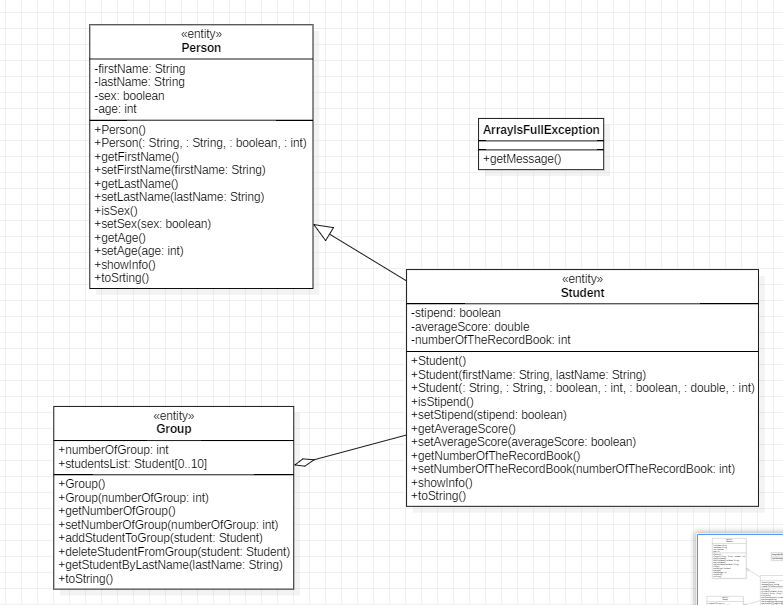
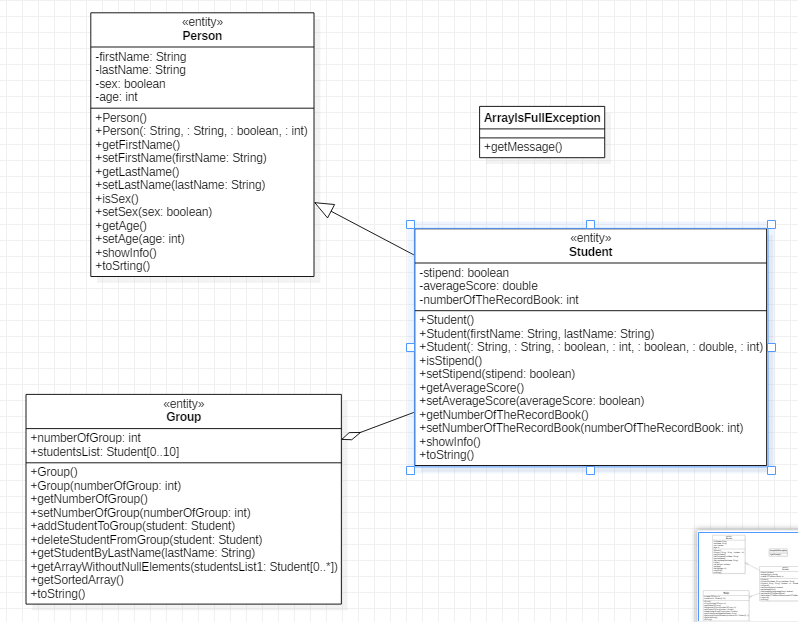
Change project

diff --git a/src/Group.java b/src/Group.java
@@ -27,7 +27,7 @@ public class Group {
         boolean isGroupFull = true;
         boolean thisStudentIsAlreadyInTheGroup = false; //для того щоб ми не добавляни 2 раза одного студента
         for (Student aStudentsList : studentsList) {
-            if (aStudentsList == student) {
+            if (aStudentsList.equals(student)) {
                 thisStudentIsAlreadyInTheGroup = true;
             }
         }
@@ -48,16 +48,18 @@ public class Group {
     }
 
     public void deleteStudentFromGroup(Student student) {
-        boolean thereAreNoThisStudentInGroup = false;
-        for (int i = 0; i < studentsList.length; i++) {
-            if (studentsList[i] == student) {
-                thereAreNoThisStudentInGroup = true;
-                studentsList[i] = null;
-                System.out.println(student.getFirstName()+" "+ student.getLastName() +" has deleted from group.");
+        if (student != null) {
+            boolean thereAreNoThisStudentInGroup = false;
+            for (int i = 0; i < studentsList.length; i++) {
+                if (studentsList[i].equals(student)) {
+                    thereAreNoThisStudentInGroup = true;
+                    studentsList[i] = null;
+                    System.out.println(student.getFirstName() + " " + student.getLastName() + " has deleted from group.");
+                }
             }
-        }
-        if (!thereAreNoThisStudentInGroup) {
-            System.out.println("Such a student is not in the group.");
+            if (!thereAreNoThisStudentInGroup) {
+                System.out.println("Such a student is not in the group.");
+            }
         }
     }
 
@@ -74,27 +76,28 @@ public class Group {
         return null;
     }
 
-    @Override
-    public String toString() {
-        //сам studentsList не сортував тому що по завданню потрібно просто вивести відсортовано
-        // а не відсортувати studentsList. тому використав додатковий масив
-
-
+    public Student[] getArrayWithoutNullElements(Student[] studentsList1){
         int lengthStudents = 0;
-        for (int i = 0; i < studentsList.length; i++) {
-            if (studentsList[i] != null) {
+        for (int i = 0; i < studentsList1.length; i++) {
+            if (studentsList1[i] != null) {
                 lengthStudents++;
             }
         }
 
         Student[] students = new Student[lengthStudents];
         int index = 0;
-        for (int i = 0; i < studentsList.length; i++) {
-            if (studentsList[i] != null) {
-                students[index] = studentsList[i];
+        for (int i = 0; i < studentsList1.length; i++) {
+            if (studentsList1[i] != null) {
+                students[index] = studentsList1[i];
                 index++;
             }
         }
+
+        return students;
+    }
+    public Student[] getSortedArray() {
+        Student[] students = null;
+        students = getArrayWithoutNullElements(studentsList);
 
         for (int i = 0; i < students.length-1; i++) {
             for (int j = 0; j < students.length-1; j++) {
@@ -115,6 +118,13 @@ public class Group {
             }
         }
 
-        return "Group{\n"+ Arrays.toString(students) +"}";
+
+        return students;
+    }
+
+    @Override
+    public String toString() {
+
+        return "Group{\n"+ Arrays.toString(getSortedArray()) +"}";
     }
 }

diff --git a/src/ArrayIsFullException.java b/src/ArrayIsFullException.java
@@ -1,4 +1,4 @@
-public class ArrayIsFullException extends ArrayIndexOutOfBoundsException {
+public class ArrayIsFullException extends Exception {
 
     @Override
     public String getMessage() {
